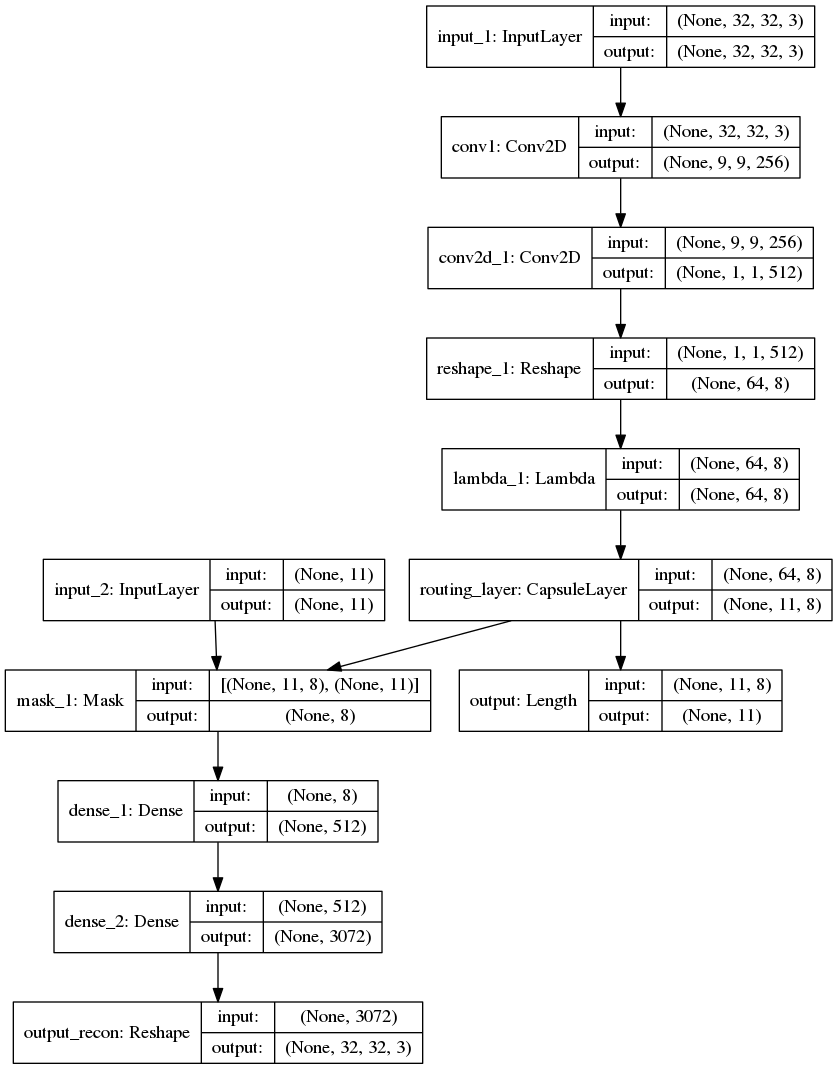
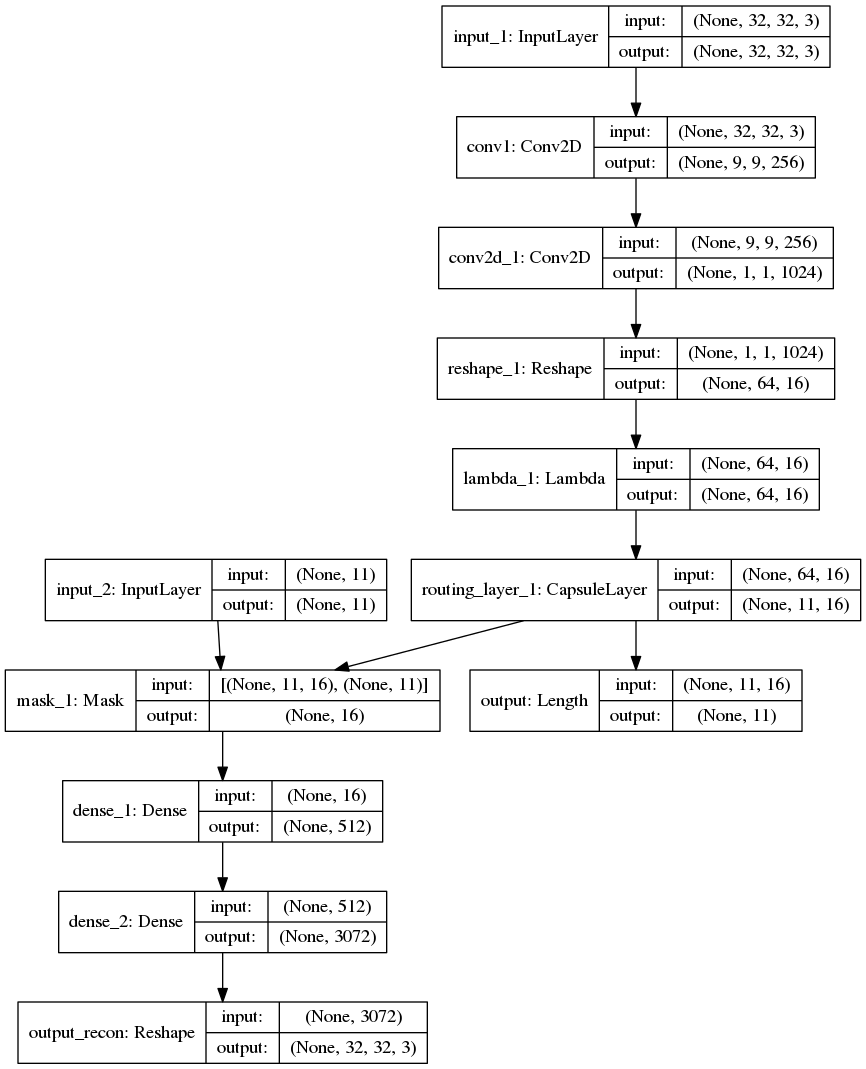
update code

diff --git a/models/resnet.py b/models/resnet.py
@@ -21,6 +21,8 @@ from keras.layers.merge import add
 from keras.layers.normalization import BatchNormalization
 from keras.regularizers import l2
 from keras import backend as K
+from utils.helper_function import load_cifar_10,load_cifar_100
+import numpy as np
 
 
 def _bn_relu(input):
@@ -203,7 +205,7 @@ class ResnetBuilder(object):
 
         # Permute dimension order if necessary
         if K.image_dim_ordering() == 'tf':
-            input_shape = (input_shape[1], input_shape[2], input_shape[0])
+            input_shape = (input_shape[0], input_shape[1], input_shape[2])
 
         # Load function from str if needed.
         block_fn = _get_block(block_fn)
@@ -252,13 +254,69 @@ class ResnetBuilder(object):
     def build_resnet_152(input_shape, num_outputs):
         return ResnetBuilder.build(input_shape, num_outputs, bottleneck, [3, 8, 36, 3])
 
-def train():
+def train(epochs=150,batch_size=32,mode=1):
+    import numpy as np
+    import os
+    from keras import callbacks
+    from keras.utils.vis_utils import plot_model
     import keras
+    from keras.preprocessing.image import ImageDataGenerator
+
+    if mode==1:
+        num_classes = 10
+        (x_train,y_train),(x_test,y_test) = load_cifar_10()
+    else:
+        num_classes = 100
+        (x_train,y_train),(x_test,y_test) = load_cifar_100()
+
+    datagen = ImageDataGenerator(
+        featurewise_center=False,  # set input mean to 0 over the dataset
+        samplewise_center=False,  # set each sample mean to 0
+        featurewise_std_normalization=False,  # divide inputs by std of the dataset
+        samplewise_std_normalization=False,  # divide each input by its std
+        zca_whitening=False,  # apply ZCA whitening
+        rotation_range=0,  # randomly rotate images in the range (degrees, 0 to 180)
+        width_shift_range=0.1,  # randomly shift images horizontally (fraction of total width)
+        height_shift_range=0.1,  # randomly shift images vertically (fraction of total height)
+        horizontal_flip=True,  # randomly flip images
+        vertical_flip=False)  # randomly flip images
+
+    # Compute quantities required for featurewise normalization
+    # (std, mean, and principal components if ZCA whitening is applied).
+    datagen.fit(x_train)
+
 
     opt = keras.optimizers.rmsprop(lr=0.0001, decay=1e-6)
+    '''
+        Total params: 21,311,754
+        Trainable params: 21,296,522
+        Non-trainable params: 15,232
+    '''
     model = ResnetBuilder.build_resnet_18((32,32,3),10)
     model.summary()
     # Let's train the model using RMSprop
     model.compile(loss='categorical_crossentropy',
                 optimizer=opt,
                 metrics=['accuracy'])
+
+    print('x_train shape:', x_train.shape)
+    print(x_train.shape[0], 'train samples')
+    print(x_test.shape[0], 'test samples')
+
+    model.summary()
+    log = callbacks.CSVLogger('results/resnet-cifar-'+str(num_classes)+'-log.csv')
+    tb = callbacks.TensorBoard(log_dir='results/tensorboard-resnet-cifar-'+str(num_classes)+'-logs',
+                               batch_size=batch_size, histogram_freq=True)
+    checkpoint = callbacks.ModelCheckpoint('weights/resnet-cifar-'+str(num_classes)+'weights-{epoch:02d}.h5',
+                                           save_best_only=True, save_weights_only=True, verbose=1)
+    lr_reducer = callbacks.ReduceLROnPlateau(factor=np.sqrt(0.1), cooldown=0, patience=5, min_lr=0.5e-6)
+
+    plot_model(model, to_file='models/resnet-cifar-'+str(num_classes)+'.png', show_shapes=True)
+
+    model.fit_generator(datagen.flow(x_train, y_train, batch_size=batch_size),
+                        steps_per_epoch=x_train.shape[0] // batch_size,
+                        validation_data=(x_test, y_test),
+                        epochs=epochs, verbose=1, max_q_size=100,
+                        callbacks=[log,tb,checkpoint,lr_reducer])
+    # model.fit_generator(, batch_size=batch_size, epochs=epochs,shuffle=True,
+    #           validation_data=(x_test, y_test), callbacks=[log, tb, checkpoint])

diff --git a/models/capsule_net.py b/models/capsule_net.py
@@ -1,29 +1,45 @@
-from keras.layers import Dense, Reshape, Input, Conv2D, Dropout
+from keras.layers import (
+    Input,
+    Activation,
+    Dense,
+    Flatten,
+    Reshape,
+    Dropout
+)
+from keras.layers.merge import add
+from keras.regularizers import l2
 from keras.models import Model
 from models.capsule_layers import CapsuleLayer, PrimaryCapsule, Length,Mask
+from keras.layers.normalization import BatchNormalization
 import keras.backend as K
 from utils.helper_function import load_cifar_10,load_cifar_100
 import numpy as np
 
+
+def convolution_block(input,kernel_size=8,filters=16,kernel_regularizer=l2(1.e-4)):
+    conv2 = Conv2D(filters=filters,kernel_size=kernel_size,kernel_regularizer=kernel_regularizer,
+                    kernel_initializer="he_normal",padding="same")(input)
+    norm = BatchNormalization(axis=3)(conv2)
+    activation = Activation("relu")(norm)
+    return activation    
+
 # why using 512, 1024 Maybe to mimic original 10M params?
 def CapsNet(input_shape,n_class,n_route,n_prime_caps=32,dense_size = (512,1024)):
-    conv_filter = 256
-    n_kernel = 24
+    conv_filter = 64
+    n_kernel = 16
     primary_channel =64
-    primary_vector = 8
+    primary_vector = 12
+    capsule_dim_size = 16
 
     target_shape = input_shape
 
     input = Input(shape=input_shape)
 
     # TODO: try leaky relu next time
-    conv1 = Conv2D(filters=conv_filter,kernel_size=n_kernel, strides=1, padding='valid', activation='relu',name='conv1')(input)
-
-    primary_cap = PrimaryCapsule(conv1,dim_vector=8,n_channels=64,kernel_size=9,strides=2,padding='valid')
-
-    routing_layer = CapsuleLayer(num_capsule=n_class,dim_vector=8,num_routing=n_route,name='routing_layer')(primary_cap)
-
-
+    conv_block_1 = convolution_block(input,kernel_size=16,filters=64)
+    primary_cap = PrimaryCapsule(conv_block_1,dim_vector=capsule_dim_size,n_channels=primary_channel,kernel_size=9,strides=2,padding='valid')    
+    # Suppose this act like a max pooling 
+    routing_layer = CapsuleLayer(num_capsule=n_class,dim_vector=capsule_dim_size,num_routing=n_route,name='routing_layer_1')(primary_cap)
     output = Length(name='output')(routing_layer)
 
     y = Input(shape=(n_class,))
@@ -33,10 +49,12 @@ def CapsNet(input_shape,n_class,n_route,n_prime_caps=32,dense_size = (512,1024))
 
     for i in range(1,len(dense_size)-1):
         x_recon = Dense(dense_size[i],activation='relu')(x_recon)
-        x_recon = Dropout(0.2)(x_recon)
     # Is there any other way to do  
     x_recon = Dense(target_shape[0]*target_shape[1]*target_shape[2],activation='relu')(x_recon)
     x_recon = Reshape(target_shape=target_shape,name='output_recon')(x_recon)
+
+    conv_block_2 = convolution_block(routing_layer)
+    b12_sum = add([conv_block_2,conv_block_1])
 
     return Model([input,y],[output,x_recon])
 
@@ -101,7 +119,7 @@ def test(epoch, mode=1):
     
     model = CapsNet(input_shape=[32, 32, 3],
                         n_class=num_classes,
-                        n_route=4)
+                        n_route=3)
     model.load_weights('weights/capsule-cifar-'+str(num_classes)+'weights-{:02d}.h5'.format(epoch)) 
     print("Weights loaded, start validation")   
     # model.load_weights('weights/capsule-weights-{:02d}.h5'.format(epoch))    

diff --git a/utils/helper_function.py b/utils/helper_function.py
@@ -12,8 +12,8 @@ def load_cifar_10():
     x_test = x_test.astype('float32')
     x_train /= 255.0
     x_test /= 255.0    
-    y_train = to_categorical(y_train, num_classes+1)
-    y_test = to_categorical(y_test, num_classes+1)
+    y_train = to_categorical(y_train, num_classes)
+    y_test = to_categorical(y_test, num_classes)
 
     return (x_train,y_train),(x_test,y_test)
 

diff --git a/main.py b/main.py
@@ -1,6 +1,8 @@
 from models.capsule_net import train as capsule_train
 from models.capsule_net import test as capsule_test
+from models.resnet import train as resnet_train
 
 if __name__ == "__main__":
-    capsule_train(150, 16, 0)
+    resnet_train()
+    # capsule_train(150, 16, 1)
     # capsule_test(19)
